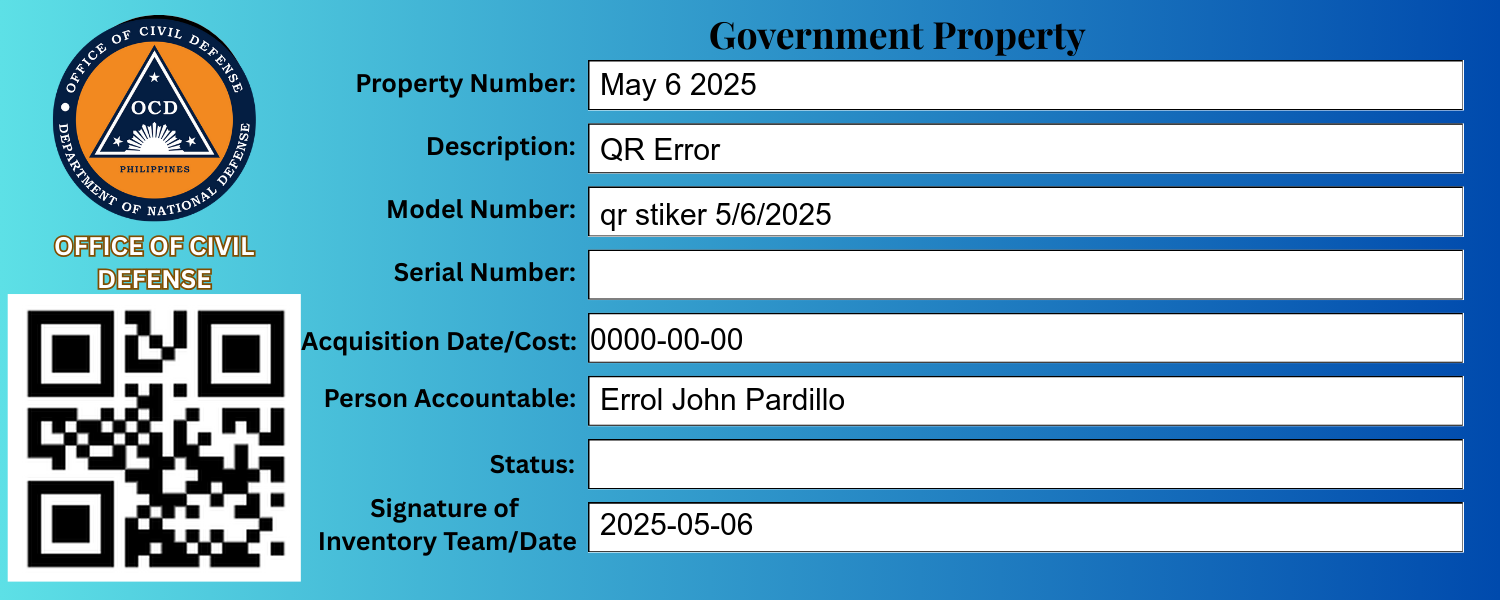
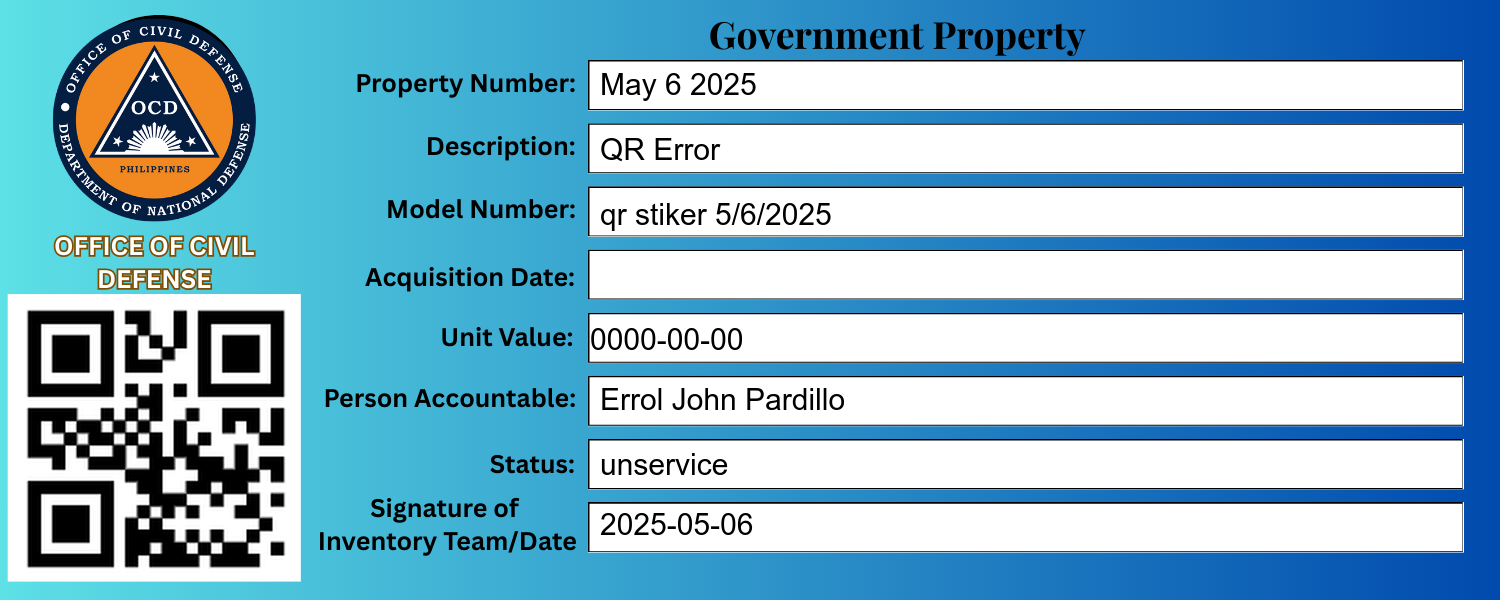
changes

Changed region(s): [[0.184, 0.54, 0.3987, 0.6], [0.2453, 0.42, 0.3987, 0.48], [0.3987, 0.75, 0.4907, 0.81]]

diff --git a/pages/landing/scan.php b/pages/landing/scan.php
@@ -5,7 +5,7 @@
     <meta charset="UTF-8">
     <meta name="viewport" content="width=device-width, initial-scale=1.0">
     <script src="/inventory-system/public/scripts/html5-qrcode.min.js"></script>
-    <link rel="stylesheet" href="/inventory-system/public/styles/qr.css">
+    <link rel="stylesheet" href="/inventory-system/public/styles/qr2.css">
     <title>Scan</title>
 </head>
 
@@ -24,7 +24,7 @@
             </div>
         </div>
         .
-        <dialog id="item-dialog">
+<dialog id="item-dialog">
     <h2 id="prod-num"></h2>
     <p id="prod-desc"></p>
     <p id="model"></p>

diff --git a/pages/list.php b/pages/list.php
@@ -58,7 +58,7 @@
         // $im->annotateImage($draw, 600, 288, 0, $row["serial_number"]);
         $im->annotateImage($draw, 590, 350, 0, $row["acquisition_date"]);
         $im->annotateImage($draw, 600, 410, 0, $row["person_accountable"]);
-        $im->annotateImage($draw, 600, 475, 0, $row["status"]);
+        $im->annotateImage($draw, 600, 475, 0, $row["remarks"]);
         $im->annotateImage($draw, 600, 535, 0, $row["signature_of_inventory_team_date"]);
     
         // Save the output
